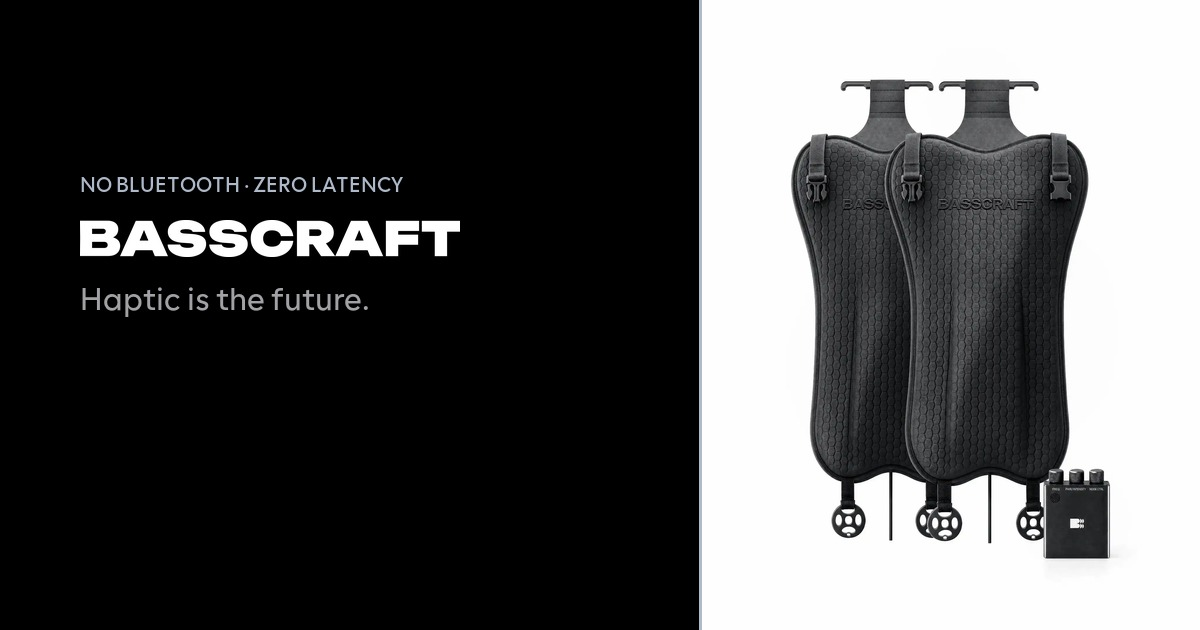
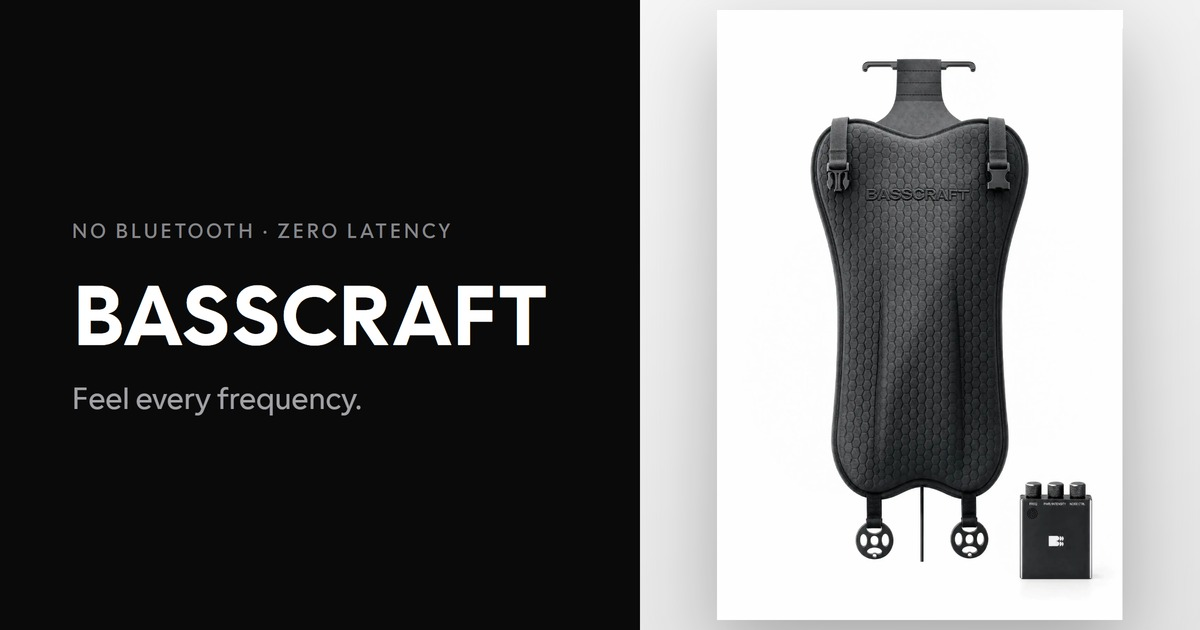
Wire up the link-preview card (og:image)
Same root cause as the favicon: og-image.jpg was committed but nothing in
<head> ever referenced it, so Slack/iMessage/etc. had no og:image to read and
fell back to scraping a random <img> off the page instead of a proper card.

Also replaced the image itself with the single-kit product shot per request
(the old one showed the dual kit) on the existing black-panel + wordmark
layout, rendered fresh at 1200x630 with the site's own CalSans font so text
stays crisp. Added the full og:*/twitter:* tag set with absolute URLs, since
crawlers fetch the image directly rather than through the page.

diff --git a/index.html b/index.html
@@ -5,6 +5,23 @@
   <meta name="viewport" content="width=device-width, initial-scale=1.0, viewport-fit=cover">
   <title>BASSCRAFT — Haptic is the future</title>
   <meta name="description" content="Feel every frequency. BASSCRAFT transforms your seat into a full-body haptic experience. No Bluetooth. Zero latency.">
+  <!-- Link-preview card (Slack/iMessage/Facebook/etc.). og-image.jpg itself was
+       committed earlier but nothing ever pointed at it — same bug as the
+       favicon — so unfurlers had no og:image to read and fell back to
+       scraping a random <img> off the page. These tags are what was missing.
+       Crawlers fetch this file directly, not through the page, so the image
+       URL has to be absolute. -->
+  <meta property="og:type" content="website">
+  <meta property="og:url" content="https://www.basscraft.co/">
+  <meta property="og:title" content="BASSCRAFT — Haptic is the future">
+  <meta property="og:description" content="Feel every frequency. BASSCRAFT transforms your seat into a full-body haptic experience. No Bluetooth. Zero latency.">
+  <meta property="og:image" content="https://www.basscraft.co/assets/images/og-image.jpg">
+  <meta property="og:image:width" content="1200">
+  <meta property="og:image:height" content="630">
+  <meta name="twitter:card" content="summary_large_image">
+  <meta name="twitter:title" content="BASSCRAFT — Haptic is the future">
+  <meta name="twitter:description" content="Feel every frequency. BASSCRAFT transforms your seat into a full-body haptic experience. No Bluetooth. Zero latency.">
+  <meta name="twitter:image" content="https://www.basscraft.co/assets/images/og-image.jpg">
   <!-- The icon files themselves were committed earlier (favicon.ico, favicon-16/32,
        apple-touch-icon, icon-192/512 — all the B mark, white on black) but nothing
        in <head> ever pointed at them, so browsers fell back to no icon at all. -->
